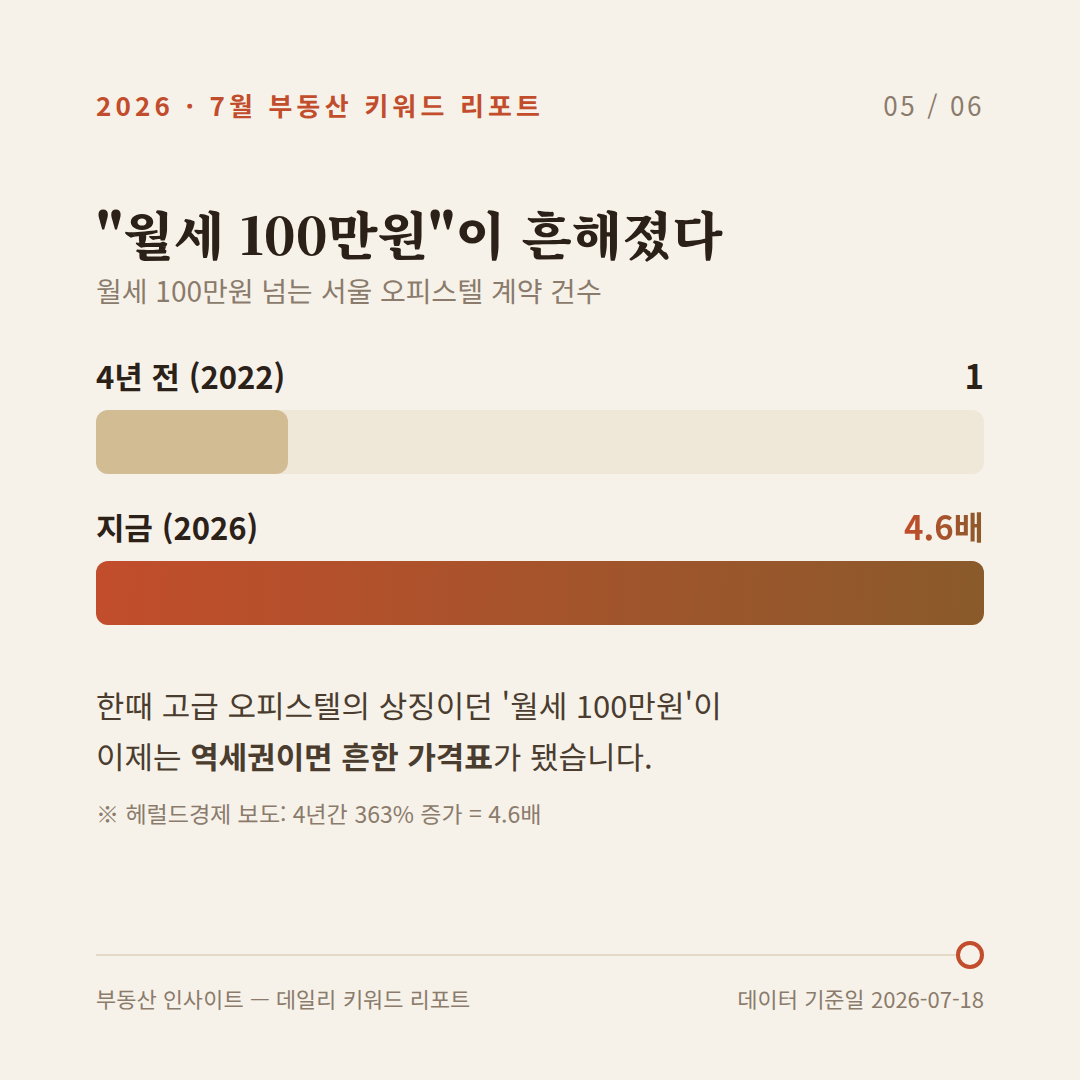
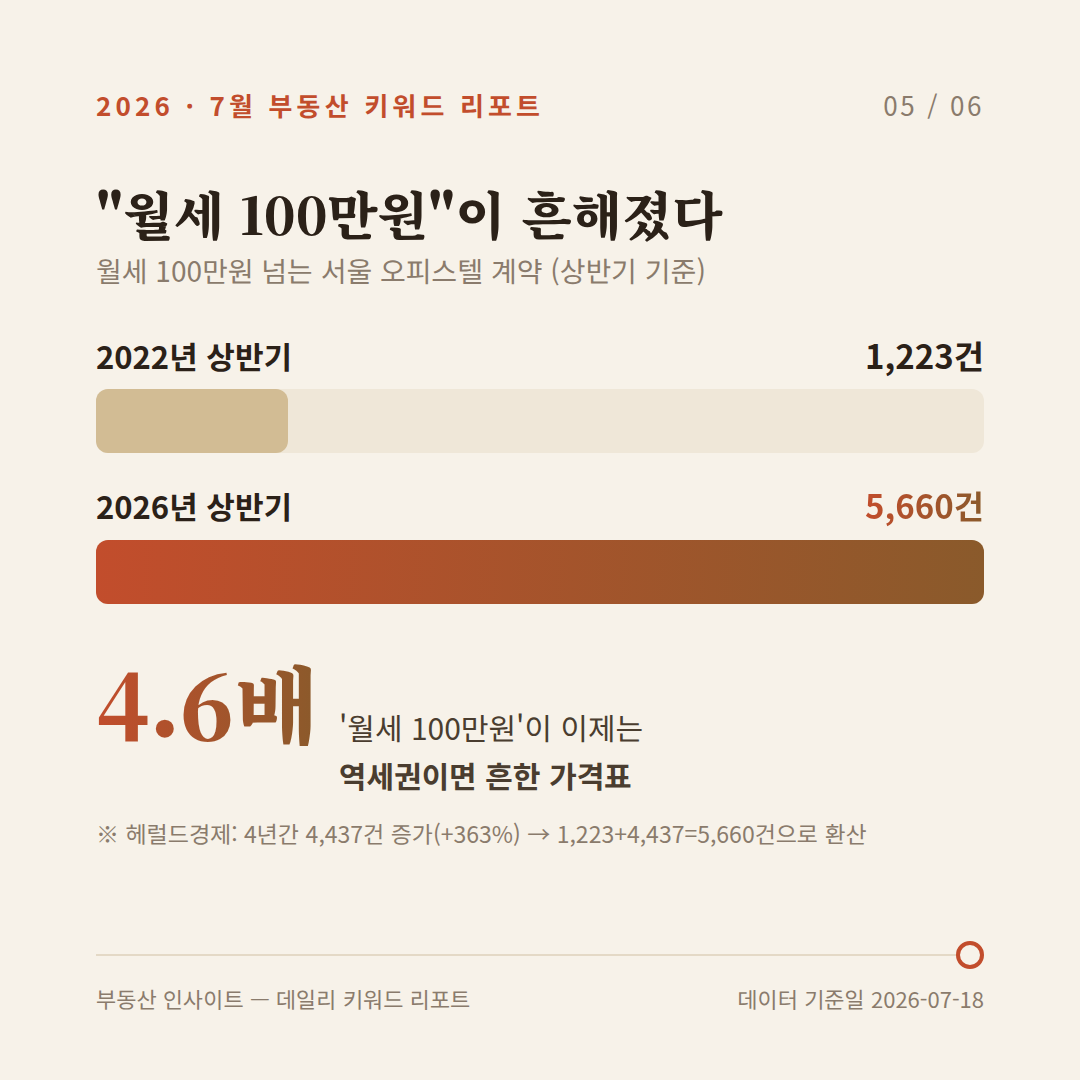
Use real contract counts on the 4.6x card and dashboard chart
Replace the unit-less index bars with reported figures: 1,223
contracts in H1 2022 vs 5,660 in H1 2026 (Herald: +4,437, +363%),
keeping 4.6x as the headline stat.

Claude-Session: https://claude.ai/code/session_014FPhCKpii9mVmDWMzN6gma

diff --git a/posts/2026-07-18-wolse100.html b/posts/2026-07-18-wolse100.html
@@ -193,13 +193,13 @@ footer a{color:var(--teal)}
   </div>
 
   <div class="chart">
-    <h3>월세 100만원 이상 서울 오피스텔 계약 (4년 전 = 100)</h3>
-    <div class="bar"><label>2022년</label>
-      <div class="rail"><div class="fill gray" style="width:21.6%"></div><span class="railval" style="left:calc(21.6% + 12px)">100</span></div></div>
-    <div class="bar"><label>2026년</label>
-      <div class="rail"><div class="fill" style="width:100%">463</div></div></div>
-    <div class="statrow"><span class="big">+363%</span>
-      <span class="desc">4년간 증가율 — 고가 월세가 더 이상 예외가 아닙니다.</span></div>
+    <h3>월세 100만원 이상 서울 오피스텔 계약 건수 (상반기 기준)</h3>
+    <div class="bar"><label>2022년 상반기</label>
+      <div class="rail"><div class="fill gray" style="width:21.6%"></div><span class="railval" style="left:calc(21.6% + 12px)">1,223건</span></div></div>
+    <div class="bar"><label>2026년 상반기</label>
+      <div class="rail"><div class="fill" style="width:100%">5,660건</div></div></div>
+    <div class="statrow"><span class="big">4.6배</span>
+      <span class="desc">4년간 4,437건 증가(+363%) — 고가 월세가 더 이상 예외가 아닙니다.</span></div>
   </div>
 </section>
 
@@ -213,7 +213,7 @@ footer a{color:var(--teal)}
     <img class="card-art" data-file="wolse-02-flow.png" src="../images/cards/report/wolse-02-flow.png" alt="카드뉴스 2/6 — 월세는 왜 갑자기 비싸졌나: 전세 매물 부족 → 전셋값 70주 연속 상승 → 밀려난 수요가 오피스텔·월세로" loading="lazy" width="1080" height="1080">
     <img class="card-art" data-file="wolse-03-weekly.png" src="../images/cards/report/wolse-03-weekly.png" alt="카드뉴스 3/6 — 5억 전세라면 매주 이만큼: 주당 +140만~175만원씩 보증금 상승 (부동산원 변동률 환산)" loading="lazy" width="1080" height="1080">
     <img class="card-art" data-file="wolse-04-renew.png" src="../images/cards/report/wolse-04-renew.png" alt="카드뉴스 4/6 — 재계약 한 번에 월 +50만원: 180만원에서 230만원으로, 연간 +600만원 부담" loading="lazy" width="1080" height="1080">
-    <img class="card-art" data-file="wolse-05-times.png" src="../images/cards/report/wolse-05-times.png" alt="카드뉴스 5/6 — 월세 100만원이 흔해졌다: 100만원 넘는 계약이 4년 새 4.6배" loading="lazy" width="1080" height="1080">
+    <img class="card-art" data-file="wolse-05-times.png" src="../images/cards/report/wolse-05-times.png" alt="카드뉴스 5/6 — 월세 100만원이 흔해졌다: 상반기 계약 1,223건(2022)에서 5,660건(2026)으로 4.6배" loading="lazy" width="1080" height="1080">
     <img class="card-art" data-file="wolse-06-check.png" src="../images/cards/report/wolse-06-check.png" alt="카드뉴스 6/6 — 월세 계약 전 체크포인트 3가지: 전월세 전환율, 갱신요구권·5% 상한, 보증금 안전장치" loading="lazy" width="1080" height="1080">
   </div>
 </section>
